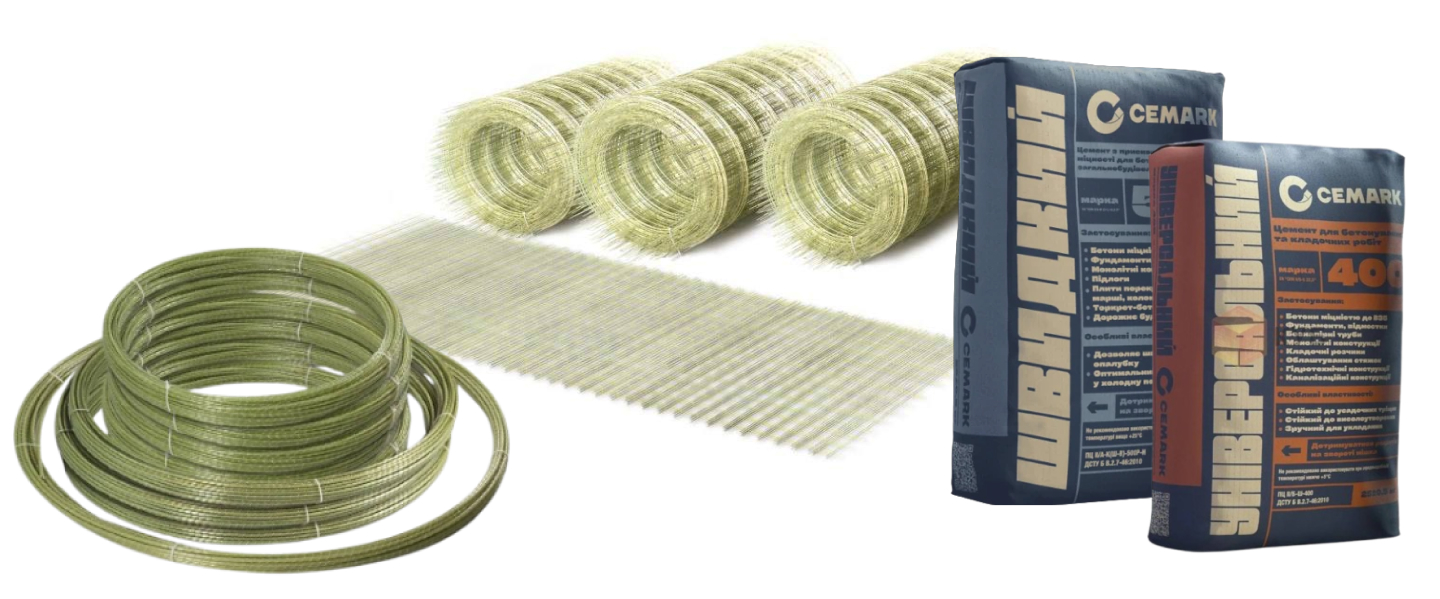
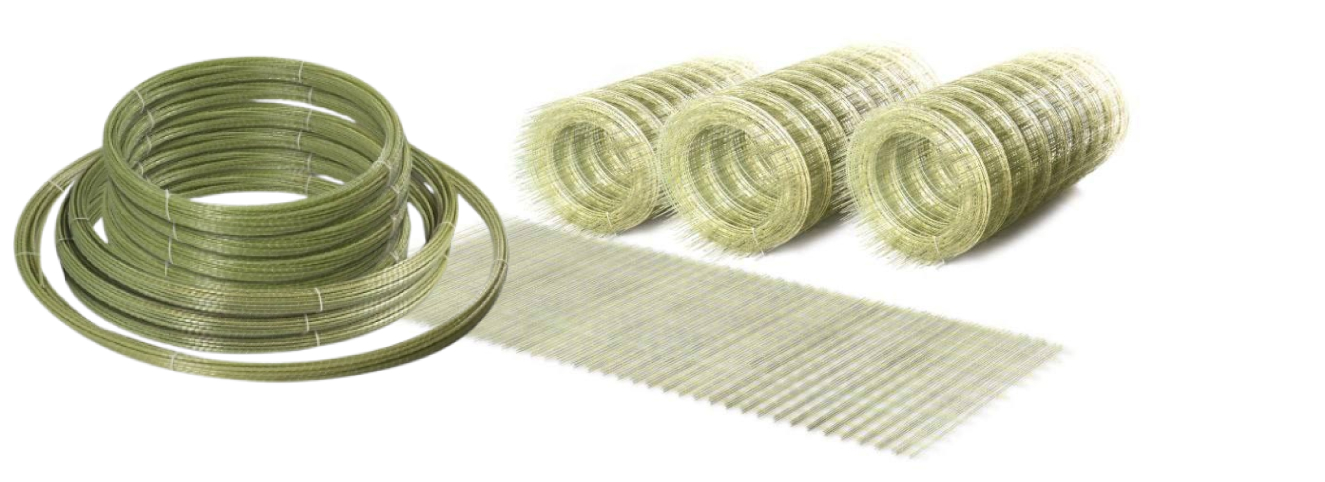
new version

diff --git a/src/index.html b/src/index.html
@@ -1,7 +1,7 @@
 <!DOCTYPE html>
 <html lang="uk">
 @@include('html/head.html', {
-'title': 'ФУНДАМЕНТ-СТРОЙ'
+'title': 'ФундаментСтрой'
 })
 
 <body>
@@ -13,8 +13,8 @@
           <div class="intro-background__img"></div>
           <div class="intro-background__cover"></div>
         </div>
-        <h1 class="intro__title">«ФУНДАМЕНТ-СТРОЙ»</h1>
-        <h2 class="intro__subtitle">Роби фундамент, стяжки та підлоги з нами!</h2>
+        <h1 class="intro__title">«ФундаментСтрой»</h1>
+        <h2 class="intro__subtitle">Армуй з нами!</h2>
       </section>
       <section id="catalog" class="catalog spacing">
         <div class="catalog__container">
@@ -24,7 +24,6 @@
               <button type="button" class="tabs-nav__item _tab-active">Усе</button>
               <button type="button" class="tabs-nav__item">Арматура</button>
               <button type="button" class="tabs-nav__item">Сітка</button>
-              <button type="button" class="tabs-nav__item">Цемент</button>
             </nav>
             <div data-tabs-body class="tabs-body">
             </div>
@@ -33,12 +32,12 @@
       </section>
       <section class="armature-advantages">
         <div class="armature-advantages__container">
-          <h3 class="armature-advantages__title section-title">Переваги композитної арматури та сітки Arvit</h3>
+          <h3 class="armature-advantages__title section-title">Переваги композитної арматури та сітки ТМ Arvit</h3>
           <div class="armature-advantages__body">
             <div class="armature-advantages-item">
               <div class="armature-advantages-item__icon"><img src="./img/adv-price.svg" alt="Низька ціна"></div>
               <div class="armature-advantages-item__column">
-                <h4 class="armature-advantages-item__title">Низька ціна</h4>
+                <h4 class="armature-advantages-item__title">Вигідна ціна</h4>
                 <p class="armature-advantages-item__text">При равнопрочной заміні металевої ціна нижче в середньому на
                   60%.</p>
               </div>
@@ -48,14 +47,14 @@
               </div>
               <div class="armature-advantages-item__column">
                 <h4 class="armature-advantages-item__title">Монтаж без зварювання</h4>
-                <p class="armature-advantages-item__text">Легко піддається різанню циркулярною пилкою і зв'язується
+                <p class="armature-advantages-item__text">Легко піддається різанню болгаркою і зв'язується
                   дротом.</p>
               </div>
             </div>
             <div class="armature-advantages-item">
               <div class="armature-advantages-item__icon"><img src="./img/adv-time.svg" alt="Строк служби"></div>
               <div class="armature-advantages-item__column">
-                <h4 class="armature-advantages-item__title">Строк служби</h4>
+                <h4 class="armature-advantages-item__title">Термін служби</h4>
                 <p class="armature-advantages-item__text">За віковою термін служби втрачає всього 20% від початкових
                   показників.</p>
               </div>
@@ -84,35 +83,6 @@
               </div>
             </div>
           </div>
-          <h3 class="armature-advantages__title section-title">Переваги цементу CEMARK</h3>
-          <div class="armature-advantages__body">
-            <div class="armature-advantages-item">
-              <div class="armature-advantages-item__icon"><img src="./img/shield.svg"
-                  alt="Довговічність і міцність будівель"></div>
-              <div class="armature-advantages-item__column">
-                <h4 class="armature-advantages-item__title">Довговічність і міцність будівель</h4>
-                <p class="armature-advantages-item__text">На кожному етапі виробництва ми контролюємо якість продукції
-                  відповідно до вимог ДСТУ.</p>
-              </div>
-            </div>
-            <div class="armature-advantages-item">
-              <div class="armature-advantages-item__icon"><img src="./img/safety.svg" alt="Безпечність для здоров'я">
-              </div>
-              <div class="armature-advantages-item__column">
-                <h4 class="armature-advantages-item__title">Безпечність для здоров'я</h4>
-                <p class="armature-advantages-item__text">Щороку цемент проходить радіаційний контроль і
-                  санітарно-епідеміологічну експертизу.</p>
-              </div>
-            </div>
-            <div class="armature-advantages-item">
-              <div class="armature-advantages-item__icon"><img src="./img/scale.svg" alt="Точна вага"></div>
-              <div class="armature-advantages-item__column">
-                <h4 class="armature-advantages-item__title">Точна вага</h4>
-                <p class="armature-advantages-item__text">Цемент автоматично фасується в мішки. Тож, якщо відхилення від
-                  ваги перевищує допустимі законодавством норми, мішок одразу знімається з лінії як брак.</p>
-              </div>
-            </div>
-          </div>
         </div>
       </section>
       <section id="delivery" class="delivery spacing">
@@ -125,8 +95,8 @@
       </section>
       <section class="callback">
         <div class="callback__container">
-          <h3 class="callback__title section-title">Залиште за’явку</h3>
-          <h4 class="callback__subtitle">Наш менеджер зв'яжеться з вами і надасть консультацію</h4>
+          <h3 class="callback__title section-title">Залишити за’явку</h3>
+          <h4 class="callback__subtitle">Наш менеджер зв'яжеться з вами і надасть кваліфіковану консультацію</h4>
           <form id="callback" class="callback__body">
             <p id="callback-success" class="popup__message type_success">Повідомлення надіслано. Менеджер скоро зв'яжеться з вами</p>
             <p id="callback-error" class="popup__message type_error">Виникла помилка. Спробуйте ще раз</p>
@@ -155,13 +125,11 @@
             <img src="./img/circle.svg" alt="Circle decoration element" class="about-us__decoration type_circle">
             <img src="./img/rectangle.svg" alt="Rectangle decoration element" class="about-us__decoration type_rectangle">
             <h3 class="about-us__title section-title">Про нас</h3>
-            <p class="about-us__text text_accent">Ми компанія <b>«Фундамент Строй»</b> вже багато років постачаємо людям та компаніям якісну композитну арматуру, кладкову сітку та цемент.</p>
-            <p class="about-us__text small_margin"><b>Наші бренди це:</b></p>
-            <ul class="about-us__text type_list">
-              <li>Композитна арматура та сітка ТМ Арвіт від виробника ТОВ ТОРГПРОМКОНТРАКТ, який вже 13 років, виробляє будматеріали найвищої якості на ринку.</li>
-              <li>Цемент від українського виробника Cemark марки 400 та 500, які вже давно здобули багато прихильників на ринку України через свою високу якість.</li>
-            </ul>
-            <p class="about-us__text">Постійно розвиваємось та здобуваємо нові вершини у якості роботи з нашими контрагентами!</p>
+            <p class="about-us__text text_accent">Ми компанія <b>«ФундаментСтрой»</b> вже багато років постачаємо людям та компаніям якісну композитну арматуру та кладочну сітку.</p>
+            <p class="about-us__text">
+              Композитна арматура та сітка ТМ Арвіт від виробника ТОВ ТОРГПРОМКОНТРАКТ, який вже 13 років, виробляє будматеріали найвищої якості на ринку.
+            </p>
+            <p class="about-us__text">Постійно розвиваємось та здобуваємо нові вершини у якості роботи з нашими клієнтами!</p>
           </div>
         </div>
       </section>
@@ -251,10 +219,6 @@
             <li class="documents__item">
               <img src="img/pdf-document.svg" alt="Pdf document">
               <a href="static/documents/Сертифікат_відповідності_на_арматуру_2023_2025.PDF">Сертифікат відповідності на арматуру 2023 2025</a>
-            </li>
-            <li class="documents__item">
-              <img src="img/image.svg" alt="Image">
-              <a href="static/documents/photo_2024-09-19_10-41-10.jpg">Сертифікат відповідності на цемент Cemark</a>
             </li>
           </ul>
         </div>

diff --git a/src/js/modules/dynamicCatalog.js b/src/js/modules/dynamicCatalog.js
@@ -42,36 +42,27 @@ const products = [[
 ], [
   {
     img: './img/mesh.jpg',
-    title: 'Сітка композитна кладкова 2мм 50*50',
+    title: 'Сітка композитна кладочна 2мм 50*50мм',
   },
   {
     img: './img/mesh.jpg',
-    title: 'Сітка композитна кладкова 2мм 100*100',
+    title: 'Сітка композитна кладочна 2мм 100*100мм',
   },
   {
     img: './img/mesh.jpg',
-    title: 'Сітка композитна кладкова 3мм 50*50',
+    title: 'Сітка композитна кладочна 3мм 50*50мм',
   },
   {
     img: './img/mesh.jpg',
-    title: 'Сітка композитна кладкова 3мм 100*100',
+    title: 'Сітка композитна кладочна 3мм 100*100мм',
   },
   {
     img: './img/mesh.jpg',
-    title: 'Сітка композитна кладкова 4мм 50*50',
+    title: 'Сітка композитна кладочна 4мм 50*50мм',
   },
   {
     img: './img/mesh.jpg',
-    title: 'Сітка композитна кладкова 4мм 100*100',
-  },
-], [
-  {
-    img: './img/cement_400.jpg',
-    title: 'Цемент М400 Універсальний 25кг',
-  },
-  {
-    img: './img/cement_500.jpg',
-    title: 'Цемент М500 Швидкий 25кг',
+    title: 'Сітка композитна кладочна 4мм 100*100мм',
   },
 ]];
 

diff --git a/src/html/callback-popup.html b/src/html/callback-popup.html
@@ -3,8 +3,8 @@
         <button class="popup__close button-close" aria-label="Close btn">
             <svg xmlns="http://www.w3.org/2000/svg" height="24px" viewBox="0 -960 960 960" width="24px" fill="#F2F2F2"><path d="m256-200-56-56 224-224-224-224 56-56 224 224 224-224 56 56-224 224 224 224-56 56-224-224-224 224Z"/></svg>
         </button>
-        <h3 class="popup__title">Перетелефонувати мені</h3>
-        <h4 class="popup__subtitle">Наш менеджер зв'яжеться з вами і надасть консультацію</h4>
+        <h3 class="popup__title">Залишити за'явку</h3>
+        <h4 class="popup__subtitle">Наш менеджер зв'яжеться з вами і надасть кваліфіковану консультацію</h4>
         <p id="popup-success" class="popup__message type_success">Повідомлення надіслано. Менеджер скоро зв'яжеться з вами</p>
         <p id="popup-error" class="popup__message type_error">Виникла помилка. Спробуйте ще раз</p>
         <div class="input">

diff --git a/src/html/header.html b/src/html/header.html
@@ -10,7 +10,7 @@
 				<p class="header-contacts__item">Працюємо 24/7</p>
 			</div>
 		</div>
-		<button data-type="callback" type="button" class="header-callback-button button">Зв'язатися з нами</button>
+		<button data-type="callback" type="button" class="header-callback-button button">Зв’язок з нами</button>
 		<button class="header-menu-icon js-icon-menu">
 			<span></span>
 		</button>
@@ -24,6 +24,6 @@
 			<li class="header-menu__item"><a href="#documents">Документи</a></li>
 			<li class="header-menu__item"><a href="#about-us">Про нас</a></li>
 		</ul>
-		<button data-type="callback" type="button" class="header-callback-button type_mobile button">Зв'язатися з нами</button>
+		<button data-type="callback" type="button" class="header-callback-button type_mobile button">Зв’язок з нами</button>
 	</nav>
 </header>

diff --git a/gulp/tasks/scss.js b/gulp/tasks/scss.js
@@ -32,7 +32,7 @@ const scss = () => {
       /** Группировка медиа-запросов только для production */
       .pipe(plugins.if(isBuild, groupMediaQueries()))
 
-      .pipe(plugins.if(isBuild, webpCss(webpConfig)))
+      // .pipe(plugins.if(isBuild, webpCss(webpConfig)))
       .pipe(plugins.if(isBuild, postcss([autoprefixer(), postcssPresetEnv()])))
 
       /** Раскомментировать если нужен не сжатый дубль файла стилей */

diff --git a/src/html/footer.html b/src/html/footer.html
@@ -29,6 +29,6 @@
         <p class="footer__schedule">Працюємо 24/7</p>
       </div>
     </div>
-    <p class="footer__copyright">© Всі права захищені 2024</p>
+    <p class="footer__copyright">© Всі права захищені 2025</p>
   </div>
 </footer>

diff --git a/src/scss/components/catalog.scss b/src/scss/components/catalog.scss
@@ -4,7 +4,7 @@
   gap: 15px;
   background: $addBackground;
   padding: 8px;
-  width: 500px;
+  width: 400px;
   margin: 15px auto;
   border-radius: 5px;
 
